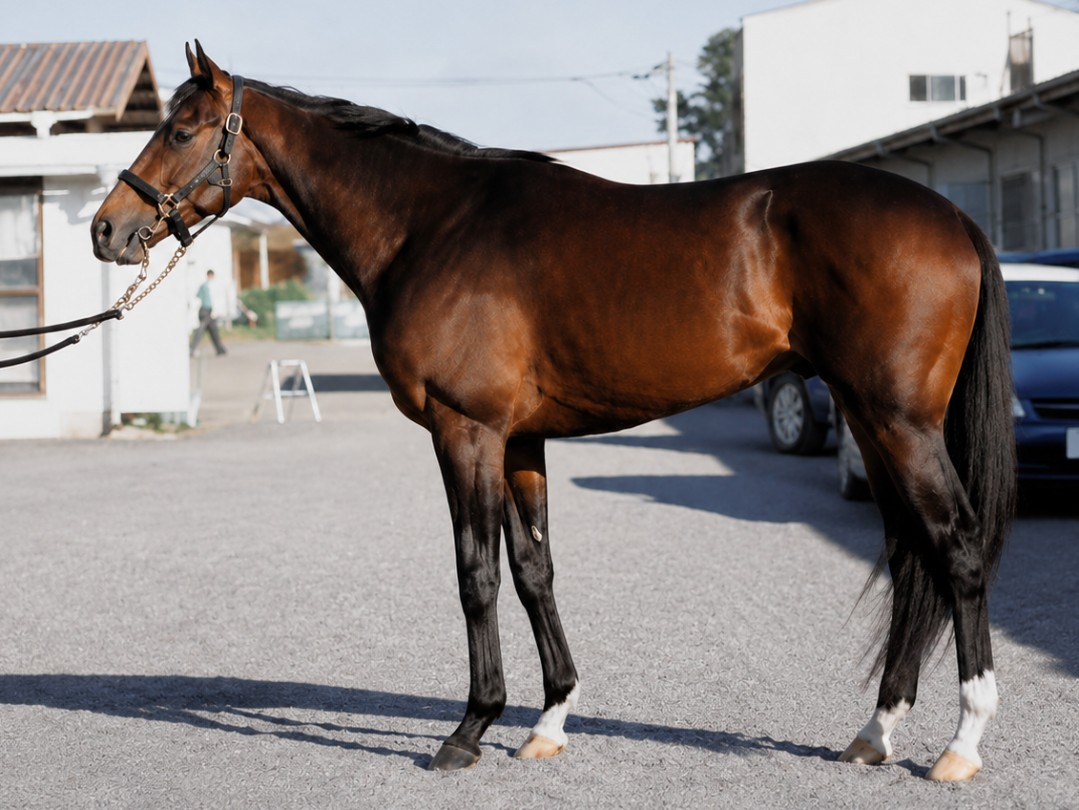
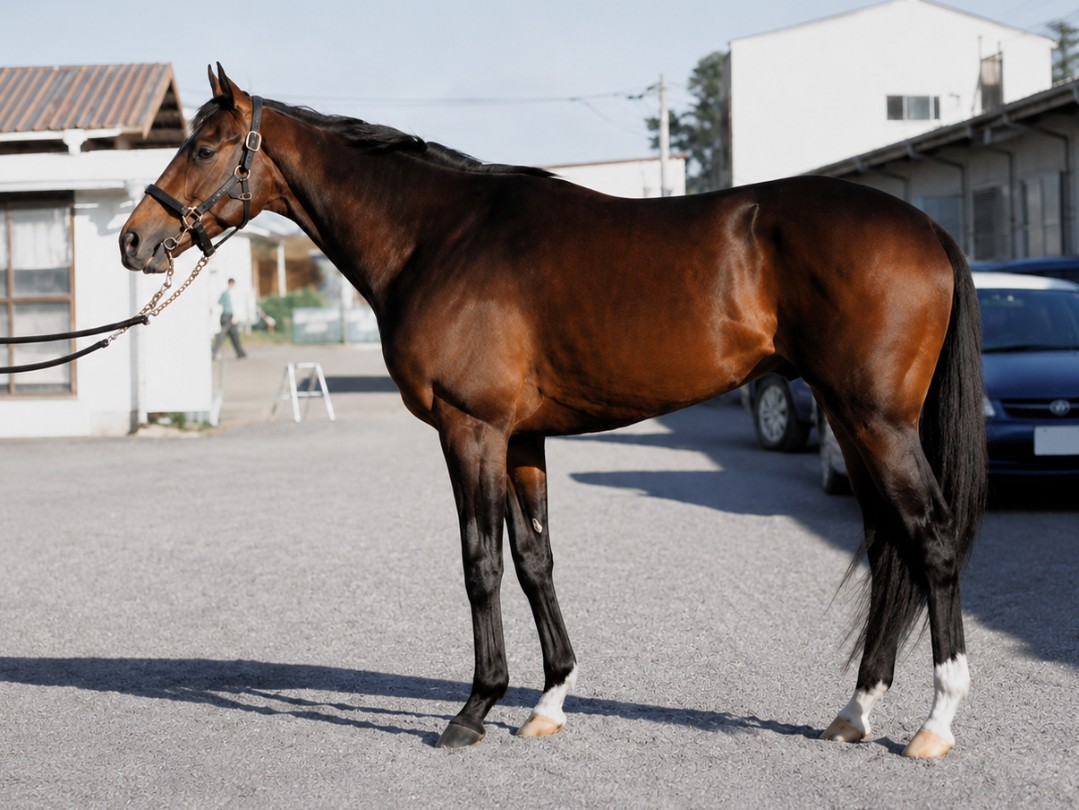
Update Deep Impact Kikka Sho image

diff --git a/docs/sw.js b/docs/sw.js
@@ -1,4 +1,4 @@
-const CACHE_NAME = "photo-paddock-v17";
+const CACHE_NAME = "photo-paddock-v18";
 const APP_SHELL = [
   "./",
   "./index.html",

diff --git a/public/sw.js b/public/sw.js
@@ -1,4 +1,4 @@
-const CACHE_NAME = "photo-paddock-v17";
+const CACHE_NAME = "photo-paddock-v18";
 const APP_SHELL = [
   "./",
   "./index.html",
